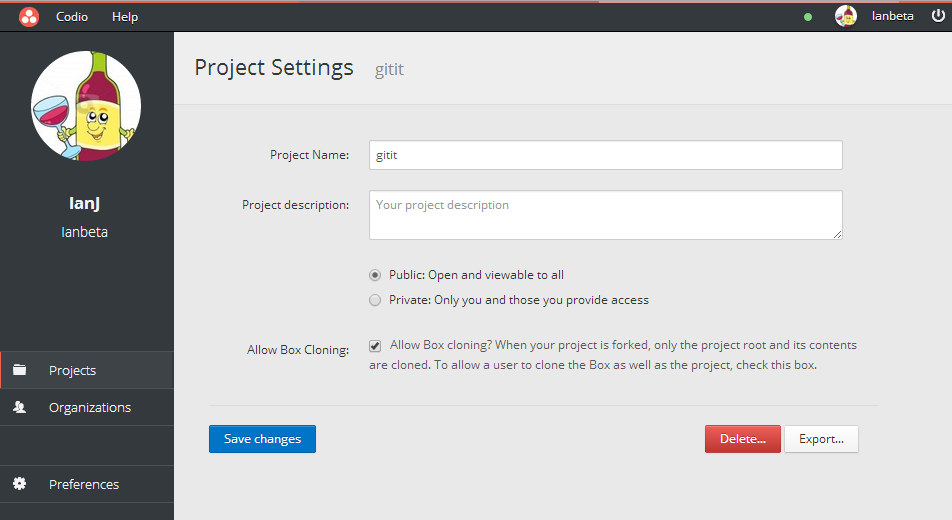
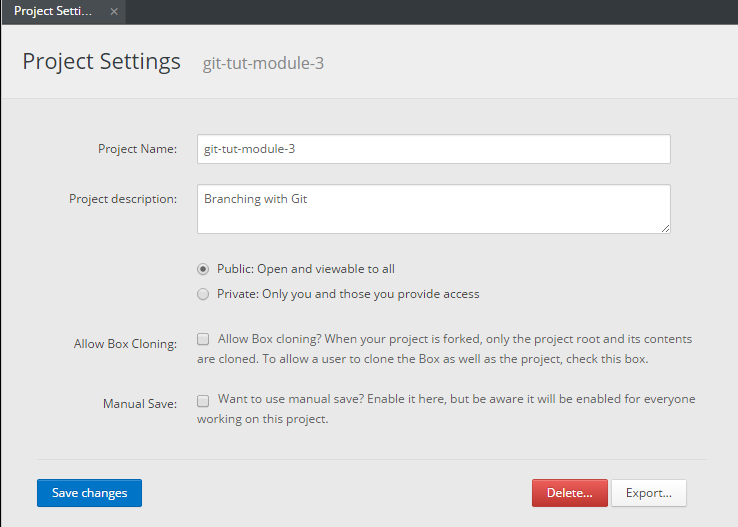
add manual saving, update user preferences and changelog

diff --git a/source/docs/changelog.html.md b/source/docs/changelog.html.md
@@ -7,58 +7,34 @@ full_width: true
 This page contains a list of recent updates made to the Codio platform. We update Codio regularly, sometimes several times a day, so this page should provide information to help you figure out what we have changed.
 
 We do not report small bug fixes or issues that affect individual users, who we will notify directly.
-###September 30th, 2014
-- **Improvement**: Improve responsiveness of [Quick Open](/docs/ide/ide-general/quick-open/) (Ctrl+O or Cmd+O).
 
-###September 29th, 2014
-- **Update**: Tutorial Docs updated for latest versions of Symfony (2.5.5) & Joomla (3.3.4).
+###October 1st, 2014
+- **Feature**: Add [Manual Save](docs/ide/ide-general/saving/) project setting.
 
-###September 25th, 2014
-- **Feature**: New [Box Part](/docs/boxes/box-parts) added.
-- **Fixed**: reports of Code Editor relative line numbering.
-
-###September 24th, 2014
-- **Fixed**: Fix soft tab when the setting is to indent with spaces.
-
-###September 22nd, 2014
-- **Update**: Update Project sharing features,  [More information...](/docs/ide/sharing)
-
-###September 18th, 2014
-- **Fixed**: Update rule to allow period within Username for SSH connections.
-- **Feature**: New [Box Part](/docs/boxes/box-parts) added.
-- **Update**: Update Box Part (meteor, rust-nightly)
-
-###September 17th, 2014
-- **Update**: Update Box Parts (googleappengine,googleappenginego,googleappenginejava)
-
-###September 11th, 2014
-- **Feature**: New [Box Parts](/docs/boxes/box-parts) added.
-- **Update**: Update Box Part (pip, neko)
-
-###September 10th, 2014
-- **Fixed**: Autocomplete dialog window truncating content to view.
-- **Update**: Update Guides to open and close files, preview and terminal. [More information...](/docs/guides/auto-open/)
-
-###September 9th, 2014
-- **Update**: Update Box Part (postgreqsl)
-- **Feature**: New [Box Parts](/docs/boxes/box-parts) added.
-- **Feature**: New Admin Permissions, [More information...](/blog/2014/09/admin-permissions/)
-
-###September 8th, 2014
-- **Update**: Update Box Part (pip, setuptools, virtualenv).
-
-###September 5th, 2014
-- **Feature**: Added File Synchronisation indicator in the active tab.
-
-###September 4th, 2014
-- **Update**: Update Box Part (python2).
-- **Feature**: New [Box Part](/docs/boxes/box-parts) added.
-
-###September 2nd, 2014
-- **Fixed**: Reports of Vertical bar in Code Editor when switching tabs.
-
-###September 1st, 2014
-- **Feature**: Added Guides. [More information...](/docs/guides)
+###September, 2014
+- **Improvement**: (September 30th) Improve responsiveness of [Quick Open](/docs/ide/ide-general/quick-open/) (Ctrl+O or Cmd+O).
+- **Update**: (September 29th) Tutorial Docs updated for latest versions of Symfony (2.5.5) & Joomla (3.3.4).
+- **Feature**: (September 25th) New [Box Part](/docs/boxes/box-parts) added.
+- **Fixed**: (September 25th) reports of Code Editor relative line numbering.
+- **Fixed**: (September 24th) Fix soft tab when the setting is to indent with spaces.
+- **Update**: (September 22nd) Update Project sharing features,  [More information...](/docs/ide/sharing)
+- **Fixed**: (September 18th) Update rule to allow period within Username for SSH connections.
+- **Feature**: (September 18th) New [Box Part](/docs/boxes/box-parts) added.
+- **Update**: (September 18th) Update Box Part (meteor, rust-nightly)
+- **Update**: (September 17th) Update Box Parts (googleappengine,googleappenginego,googleappenginejava)
+- **Feature**: (September 11th) New [Box Parts](/docs/boxes/box-parts) added.
+- **Update**: (September 11th) Update Box Part (pip, neko)
+- **Fixed**: (September 10th) Autocomplete dialog window truncating content to view.
+- **Update**: (September 10th) Update Guides to open and close files, preview and terminal. [More information...](/docs/guides/auto-open/)
+- **Update**: (September 9th) Update Box Part (postgreqsl)
+- **Feature**: (September 9th) New [Box Parts](/docs/boxes/box-parts) added.
+- **Feature**: (September 9th) New Admin Permissions, [More information...](/blog/2014/09/admin-permissions/)
+- **Update**: (September 8th) Update Box Part (pip, setuptools, virtualenv).
+- **Feature**: (September 5th) Added File Synchronisation indicator in the active tab.
+- **Update**: (September 4th)Update Box Part (python2).
+- **Feature**: (September 4th) New [Box Part](/docs/boxes/box-parts) added.
+- **Fixed**: (September 2nd) Reports of Vertical bar in Code Editor when switching tabs.
+- **Feature**: (September 1st) Added Guides. [More information...](/docs/guides)
 
 ###August, 2014
 - **Fixed**: (August 27th) reports of Export As Zip not functioning.
